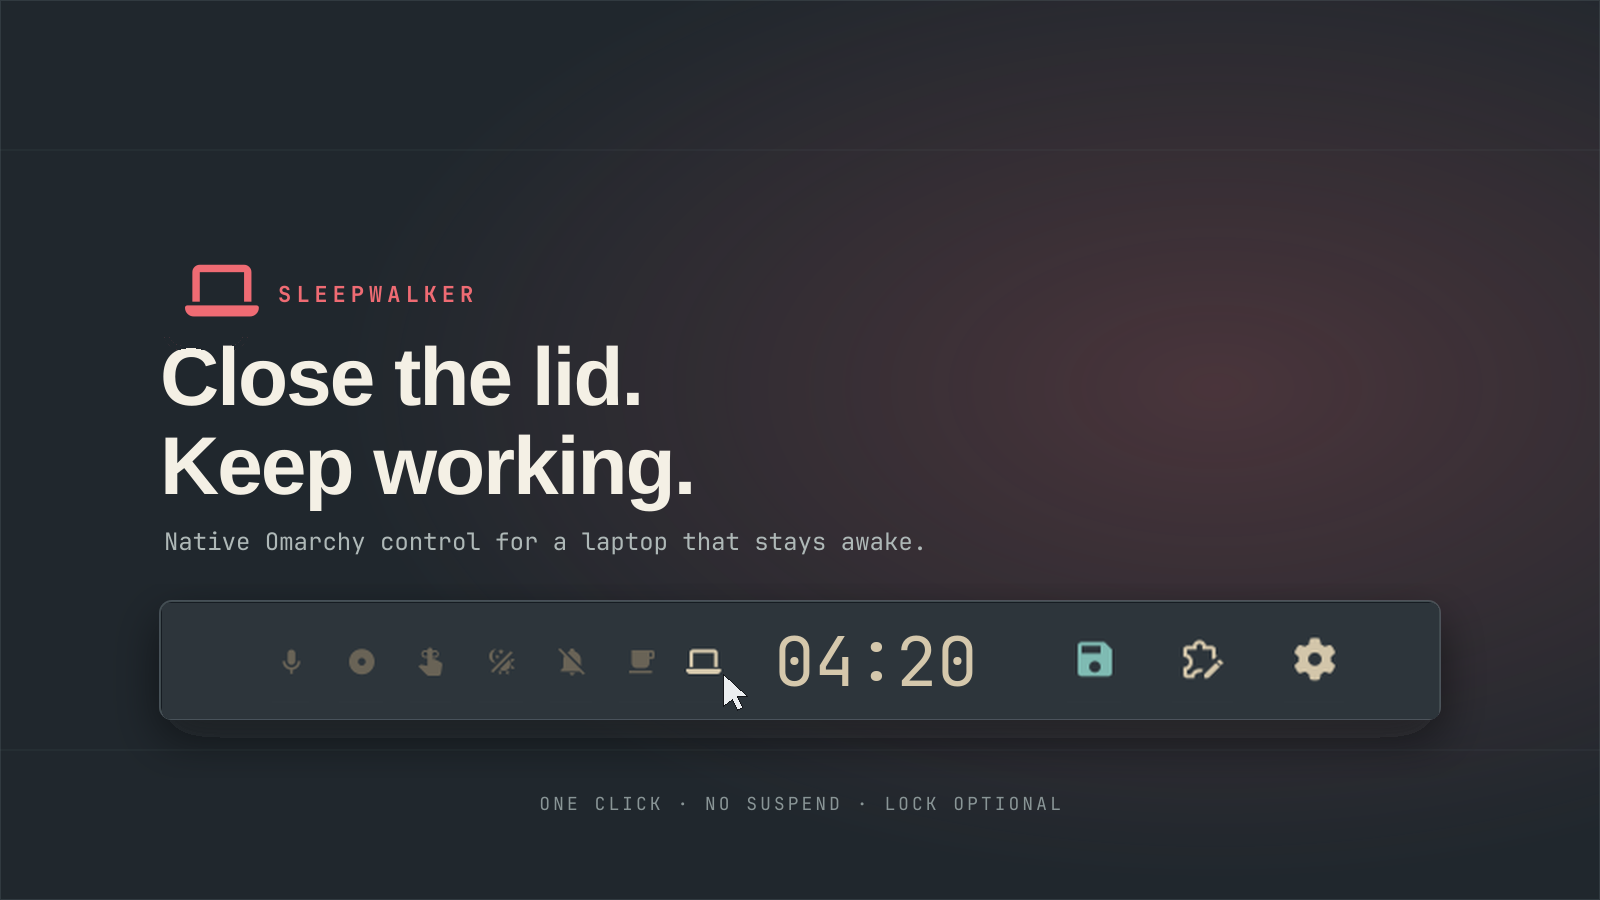
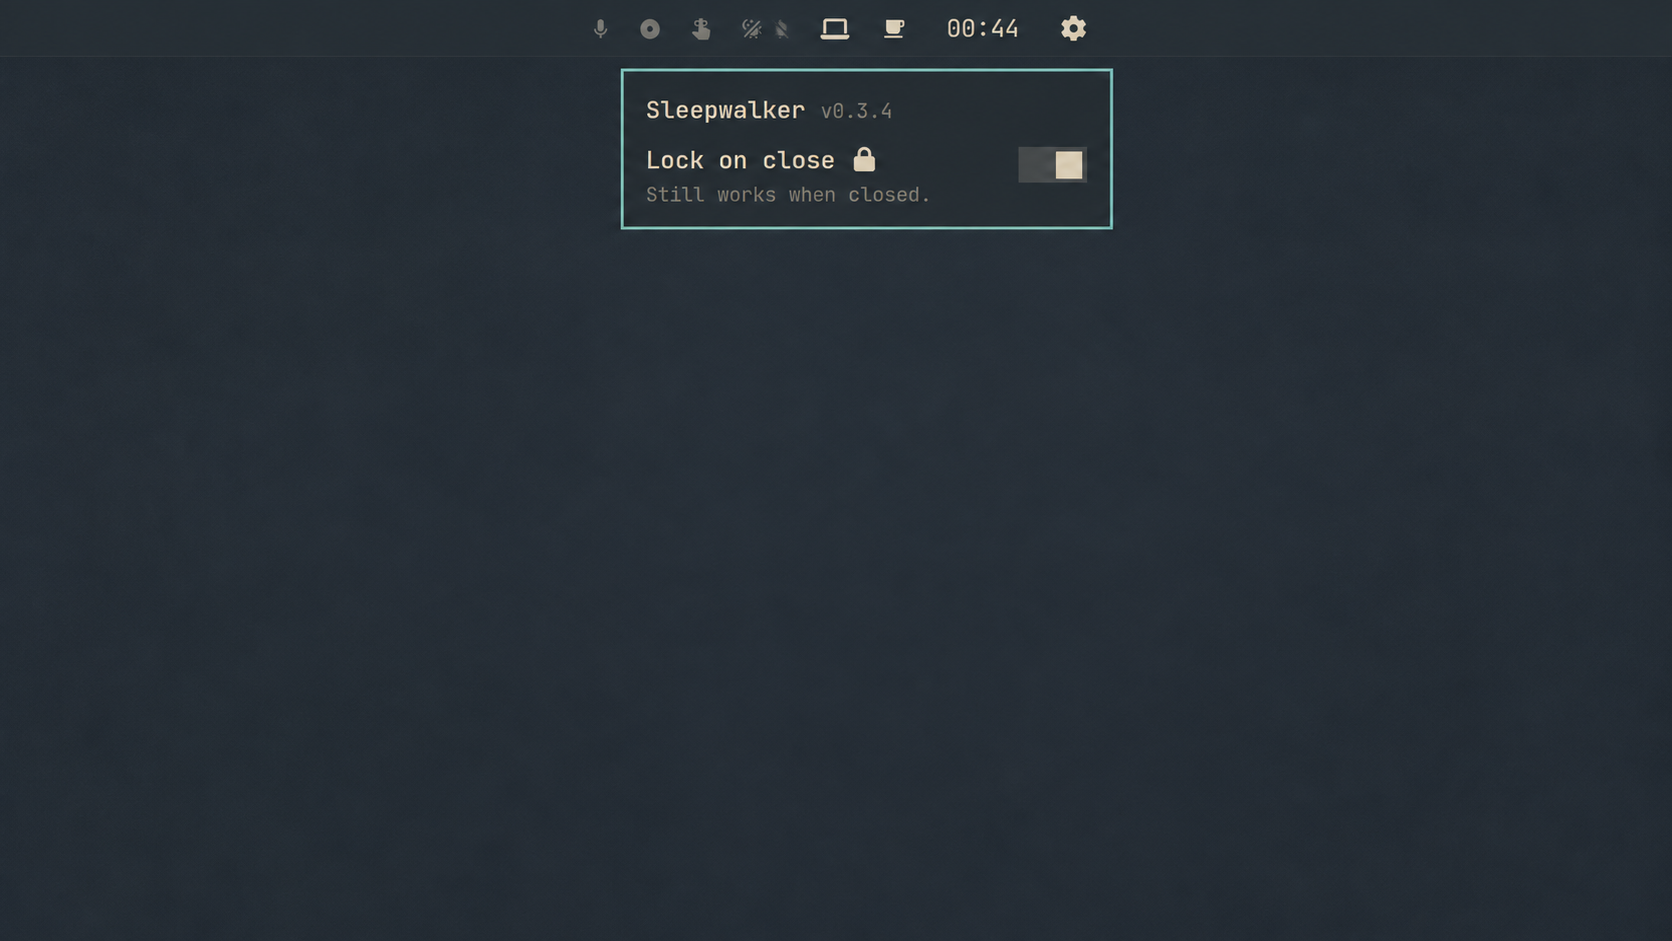
feat: add laptop popup controls

diff --git a/indicators/Laptop.qml b/indicators/Laptop.qml
@@ -1,5 +1,6 @@
 import QtQuick
 import Quickshell.Io
+import qs.Commons
 import qs.Ui
 
 // Sleepwalker indicator — lives inside this plugin's Indicators clone, so it
@@ -24,35 +25,89 @@ BarIndicator {
   // the CLI bundled in this plugin, resolved relative to this file — never
   // looked up on PATH, because `omarchy plugin add` runs no install hook.
   readonly property string fallbackCli: decodeURIComponent(String(Qt.resolvedUrl("../bin/omarchy-sleepwalker")).replace(/^file:\/\//, ""))
+  readonly property string manifestPath: decodeURIComponent(String(Qt.resolvedUrl("../manifest.json")).replace(/^file:\/\//, ""))
 
   property bool probedOn: false
+  property bool probedLockOn: false
+  property string pluginName: "Sleepwalker"
+  property string pluginVersion: ""
+  property var fallbackActions: []
 
   active: svcAvailable ? (sleepService.lidOn === true) : probedOn
+  readonly property bool lockOnLid: svcAvailable ? (sleepService.lockOnLid === true) : probedLockOn
+  readonly property bool fallbackBusy: fallbackActionProc.running || fallbackActions.length > 0
   // FA laptop mono-glyph — with chassis, same height/centering as others
   activeText: ""
   inactiveText: ""
-  activeTooltipText: "Laptop ON — lid closed keeps working (click to turn off)"
-  inactiveTooltipText: "Laptop OFF — lid suspends (click to turn on)"
+  activeTooltipText: "Laptop ON — lid closed keeps working (click to turn off; right-click to configure)"
+  inactiveTooltipText: "Laptop OFF — system lid policy applies (click to turn on; right-click to configure)"
 
   function toggle() {
     if (svcAvailable && typeof sleepService.toggleLid === "function") {
       sleepService.toggleLid()
       return
     }
-    if (toggleProc.running || statusProc.running) {
-      pendingToggles++
+    enqueueFallback("lid-toggle")
+  }
+
+  function setLock(desired) {
+    var on = desired === true
+    if (svcAvailable && typeof sleepService.setLock === "function") {
+      sleepService.setLock(on)
       return
     }
-    toggleProc.running = true
+    enqueueFallback(on ? "lock-on" : "lock-off")
+  }
+
+  function enqueueFallback(action) {
+    fallbackActions = fallbackActions.concat([action])
+    drainFallbackActions()
+  }
+
+  // The fallback owns one write process. This preserves the order of fast
+  // left-click and lock changes even when Service.qml is temporarily absent.
+  function drainFallbackActions() {
+    if (fallbackActionProc.running || fallbackActions.length === 0) return
+
+    var action = fallbackActions[0]
+    if (svcAvailable) {
+      fallbackActions = fallbackActions.slice(1)
+      if (action === "lid-toggle" && typeof sleepService.toggleLid === "function")
+        sleepService.toggleLid()
+      else if (action === "lock-on" && typeof sleepService.setLock === "function")
+        sleepService.setLock(true)
+      else if (action === "lock-off" && typeof sleepService.setLock === "function")
+        sleepService.setLock(false)
+      else {
+        fallbackActions = [action].concat(fallbackActions)
+        return
+      }
+      Qt.callLater(drainFallbackActions)
+      return
+    }
+
+    if (action === "lid-toggle") fallbackActionProc.command = [fallbackCli, "lid", "toggle"]
+    else if (action === "lock-on") fallbackActionProc.command = [fallbackCli, "lock", "on"]
+    else fallbackActionProc.command = [fallbackCli, "lock", "off"]
+    fallbackActionProc.running = true
   }
 
   function refresh() {
-    if (svcAvailable) return
-    if (statusProc.running) return
+    if (svcAvailable || statusProc.running || fallbackBusy) return
     statusProc.running = true
   }
 
-  property int pendingToggles: 0
+  function toggleMenu() {
+    if (bar) bar.hideTooltip(root)
+    menuOpen = !menuOpen
+  }
+
+  // PopupCard delegates outside-click dismissal to its owner when available.
+  function close() {
+    menuOpen = false
+  }
+
+  property bool menuOpen: false
 
   onBarChanged: refresh()
   Component.onCompleted: refresh()
@@ -63,27 +118,34 @@ BarIndicator {
     function onRefreshRequested() { root.refresh() }
   }
 
-  Process {
-    id: toggleProc
-    command: [root.fallbackCli, "lid", "toggle"]
-    onExited: function(code) {
-      if (code !== 0) console.warn("Sleepwalker: fallback toggle failed with code", code)
-      root.refresh()
-      settle.restart()
-      // Clicks queue as a counter because each is a flip: an odd remainder
-      // means one net toggle is still owed. Route it through the service if
-      // it appeared mid-flight, else re-run the fallback when free.
-      var owed = root.pendingToggles % 2
-      root.pendingToggles = 0
-      if (owed === 1) {
-        if (root.svcAvailable && typeof root.sleepService.toggleLid === "function") {
-          root.sleepService.toggleLid()
-        } else if (!root.toggleProc.running && !root.statusProc.running) {
-          root.toggle()
-        } else {
-          root.pendingToggles = 1
-        }
+  FileView {
+    path: root.manifestPath
+    watchChanges: false
+    printErrors: false
+    onLoaded: {
+      try {
+        var manifest = JSON.parse(text() || "{}")
+        if (typeof manifest.name === "string" && manifest.name !== "") root.pluginName = manifest.name
+        if (typeof manifest.version === "string") root.pluginVersion = manifest.version
+      } catch (e) {
+        console.warn("Sleepwalker: manifest is not valid JSON")
       }
+    }
+  }
+
+  Process {
+    id: fallbackActionProc
+    onExited: function(code) {
+      var action = root.fallbackActions.length > 0 ? root.fallbackActions[0] : "unknown"
+      if (root.fallbackActions.length > 0) root.fallbackActions = root.fallbackActions.slice(1)
+      if (code !== 0) console.warn("Sleepwalker: fallback " + action + " failed with code", code)
+      root.drainFallbackActions()
+      Qt.callLater(function() {
+        if (!root.fallbackBusy) {
+          root.refresh()
+          settle.restart()
+        }
+      })
     }
   }
 
@@ -96,9 +158,11 @@ BarIndicator {
         try {
           var data = JSON.parse(text || "{}")
           root.probedOn = data.active === true
+          root.probedLockOn = data.lockOnLid === true
         } catch(e) {
           console.warn("Sleepwalker: fallback status unparsable")
           root.probedOn = false
+          root.probedLockOn = false
         }
       }
     }
@@ -106,6 +170,99 @@ BarIndicator {
       if (code !== 0) {
         console.warn("Sleepwalker: fallback status failed with code", code)
         root.probedOn = false
+        root.probedLockOn = false
+      }
+    }
+  }
+
+  PopupCard {
+    id: menu
+    anchorItem: root
+    owner: root
+    bar: root.bar
+    open: root.menuOpen
+    contentWidth: menu.fittedContentWidth(Style.space(280))
+    contentHeight: menu.fittedContentHeight(menuColumn.implicitHeight)
+
+    Column {
+      id: menuColumn
+      anchors.fill: parent
+      spacing: Style.space(8)
+
+      Row {
+        width: parent.width
+        spacing: Style.space(6)
+
+        Text {
+          textFormat: Text.PlainText
+          text: root.pluginName
+          color: root.foreground
+          font.family: root.fontFamily
+          font.pixelSize: Style.font.subtitle
+          font.bold: true
+        }
+
+        Text {
+          visible: root.pluginVersion !== ""
+          anchors.verticalCenter: parent.verticalCenter
+          textFormat: Text.PlainText
+          text: "v" + root.pluginVersion
+          color: Qt.darker(root.foreground, 1.45)
+          font.family: root.fontFamily
+          font.pixelSize: Style.font.caption
+        }
+      }
+
+      Item {
+        width: parent.width
+        implicitHeight: Math.max(lockCopy.implicitHeight, lockSwitch.implicitHeight)
+
+        Row {
+          anchors.fill: parent
+          spacing: Style.space(12)
+
+          Column {
+            id: lockCopy
+            width: parent.width - lockSwitch.implicitWidth - parent.spacing
+            spacing: Style.space(2)
+            anchors.verticalCenter: parent.verticalCenter
+
+            Text {
+              textFormat: Text.PlainText
+              text: "Lock on close "
+              color: root.foreground
+              font.family: root.fontFamily
+              font.pixelSize: Style.font.subtitle
+              font.bold: true
+            }
+
+            Text {
+              textFormat: Text.PlainText
+              text: root.active
+                ? "Still works when closed."
+                : "Still works when enabled."
+              color: Qt.darker(root.foreground, 1.5)
+              font.family: root.fontFamily
+              font.pixelSize: Style.font.caption
+              wrapMode: Text.WordWrap
+              width: parent.width
+            }
+          }
+
+          ToggleSwitch {
+            id: lockSwitch
+            checked: root.lockOnLid
+            foreground: root.foreground
+            interactive: false
+            anchors.verticalCenter: parent.verticalCenter
+          }
+        }
+
+        MouseArea {
+          anchors.fill: parent
+          cursorShape: Qt.PointingHandCursor
+          onClicked: root.setLock(!root.lockOnLid)
+        }
       }
     }
   }
@@ -114,5 +271,8 @@ BarIndicator {
   // Fallback poll only — the service path is push-based and needs none.
   Timer { interval: 30000; running: !root.svcAvailable; repeat: true; onTriggered: root.refresh() }
 
-  onPressed: function() { root.toggle() }
+  onPressed: function(button) {
+    if (button === Qt.RightButton) root.toggleMenu()
+    else if (button === Qt.LeftButton) root.toggle()
+  }
 }

diff --git a/README.md b/README.md
@@ -11,7 +11,7 @@ Needs: Omarchy 4 · a laptop with a lid switch (does nothing on desktops) ·
 
 ## What it does
 
-Laptops suspend when you close the lid. Sleepwalker adds a **Laptop indicator** to Omarchy's bar: click it and closing the lid only powers off the panel — downloads, builds, servers and SSH sessions keep running. Click again and you're back to stock.
+Laptops suspend when you close the lid. Sleepwalker adds a **Laptop indicator** to Omarchy's bar: left-click it and closing the lid only powers off the panel — downloads, builds, servers and SSH sessions keep running. Left-click again and you're back to stock. Right-click it to configure locking on lid close.
 
 | Lid closed, Sleepwalker… | Result |
 |---|---|
@@ -21,10 +21,7 @@ Laptops suspend when you close the lid. Sleepwalker adds a **Laptop indicator** 
 
 No separate widget, no oversized icon: Sleepwalker **is** Omarchy's
 indicator strip with a 7th entry — same size, same dim-when-off, same
-hover-reveal as the other six.
-
-![Laptop indicator on, bright next to the clock](docs/bar-on.png)
-![Laptop indicator off, dimmed among the rest](docs/bar-off.png)
+hover-reveal as the other six. The preview shows its compact PopupCard.
 
 ## Quickstart
 
@@ -36,6 +33,10 @@ omarchy-sleepwalker lid on
 
 Close the lid: the panel goes off, everything keeps running. The Laptop
 icon sits next to the clock, bright when on, dimmed when off.
+
+Right-click Laptop to open its compact menu. It shows the installed plugin
+version and toggles **Lock on lid close**. The setting takes effect while
+Sleepwalker is on. The menu does not change the system-wide lid policy.
 
 ## Install
 
@@ -118,11 +119,17 @@ only update when the installer runs (it is idempotent).
 ## Remove
 
 ```sh
-./uninstall.sh
-omarchy plugin remove io.github.tymurbogach.sleepwalker
+omarchy-sleepwalker remove
 ```
 
-In this order the restored built-in strip comes back clean. Lid close returns to stock suspend.
+This is the clean removal command. It removes plugin-owned CLI files, the
+lid-close shim, the marked binding block, state files and the plugin through
+Omarchy. Lid close returns to stock suspend.
+
+`omarchy plugin remove io.github.tymurbogach.sleepwalker` cannot run a plugin
+uninstall hook. If you use it directly, run
+`~/.local/bin/omarchy-sleepwalker-uninstall` afterwards to remove the external
+files that `./install.sh` created.
 
 ## Troubleshooting
 

diff --git a/docs/CONTRIBUTING.md b/docs/CONTRIBUTING.md
@@ -25,6 +25,10 @@ omarchy plugin add . --enable --yes
 omarchy-restart-shell                  # the only reliable QML reload
 ```
 
+`omarchy plugin add .` clones the committed Git revision. Before a development
+cycle with uncommitted runtime changes, copy those files into the installed
+plugin directory after `plugin add`, or commit them first.
+
 Then verify a cold start by hand: the bar renders, a click toggles the
 indicator, a lid close behaves, `omarchy plugin list --json` shows the plugin,
 and disable, enable, restart and remove all work cleanly.
@@ -106,9 +110,13 @@ user edits elsewhere in the file always survive install and uninstall.
   the like). The complete checkout becomes the plugin payload, and the
   marketplace review rejects files that steer coding agents. Contributor
   notes live here, in `docs/`.
-- Zero residue on remove: `uninstall.sh` leaves no files, caches or stray
-  `shell.json` entries behind, and removes only the files that it can verify
-  as its own (see the `ours()` check in `uninstall.sh`). Safety backups
+- Zero residue on the clean path: `omarchy-sleepwalker remove` runs the
+  installed uninstaller, then calls `omarchy plugin remove`. Direct
+  `omarchy plugin remove` cannot execute an uninstall hook. Run the remaining
+  `~/.local/bin/omarchy-sleepwalker-uninstall` after that direct removal.
+  The uninstaller leaves no owned files, caches or stray `shell.json` entries
+  behind, and removes only files that it can verify as its own (see the
+  `ours()` check in `uninstall.sh`). Safety backups
   (`*.bak.*` beside the edited file) are capped at the newest 3 by
   `prune_backups` in both scripts.
 - Commits: English, imperative, one concern per commit, authored by the

diff --git a/docs/SPEC.md b/docs/SPEC.md
@@ -21,6 +21,25 @@ Writers: `Service.qml` (serialized `bash -c`), CLI (`lid`/`lock`).
 
 The toggle persists across reboots by design (see README warning).
 
+## 1.1 Laptop menu
+
+Right-clicking Laptop opens a `PopupCard` anchored to the indicator. It reads
+the name and version from the bundled manifest, and changes only `lid-lock`.
+Left-click keeps its existing lid-toggle behavior. The menu never writes
+`shell.json`, `/etc`, or a systemd policy.
+
+When `Service.qml` is live, the menu calls `setLock()` directly. Otherwise it
+uses the bundled CLI fallback, with lid and lock writes serialized in order.
+
+## 1.2 Removal
+
+`omarchy-sleepwalker remove` runs the installed uninstaller with
+`--remove-plugin`. It removes plugin-owned external files before it asks
+Omarchy to remove the plugin directory. Omarchy has no plugin uninstall hook,
+so direct `omarchy plugin remove` cannot clean those external files. The
+installed `omarchy-sleepwalker-uninstall` remains available for that recovery
+path.
+
 ## 2. Inhibitor ownership
 
 Exactly one handle per live service: child
